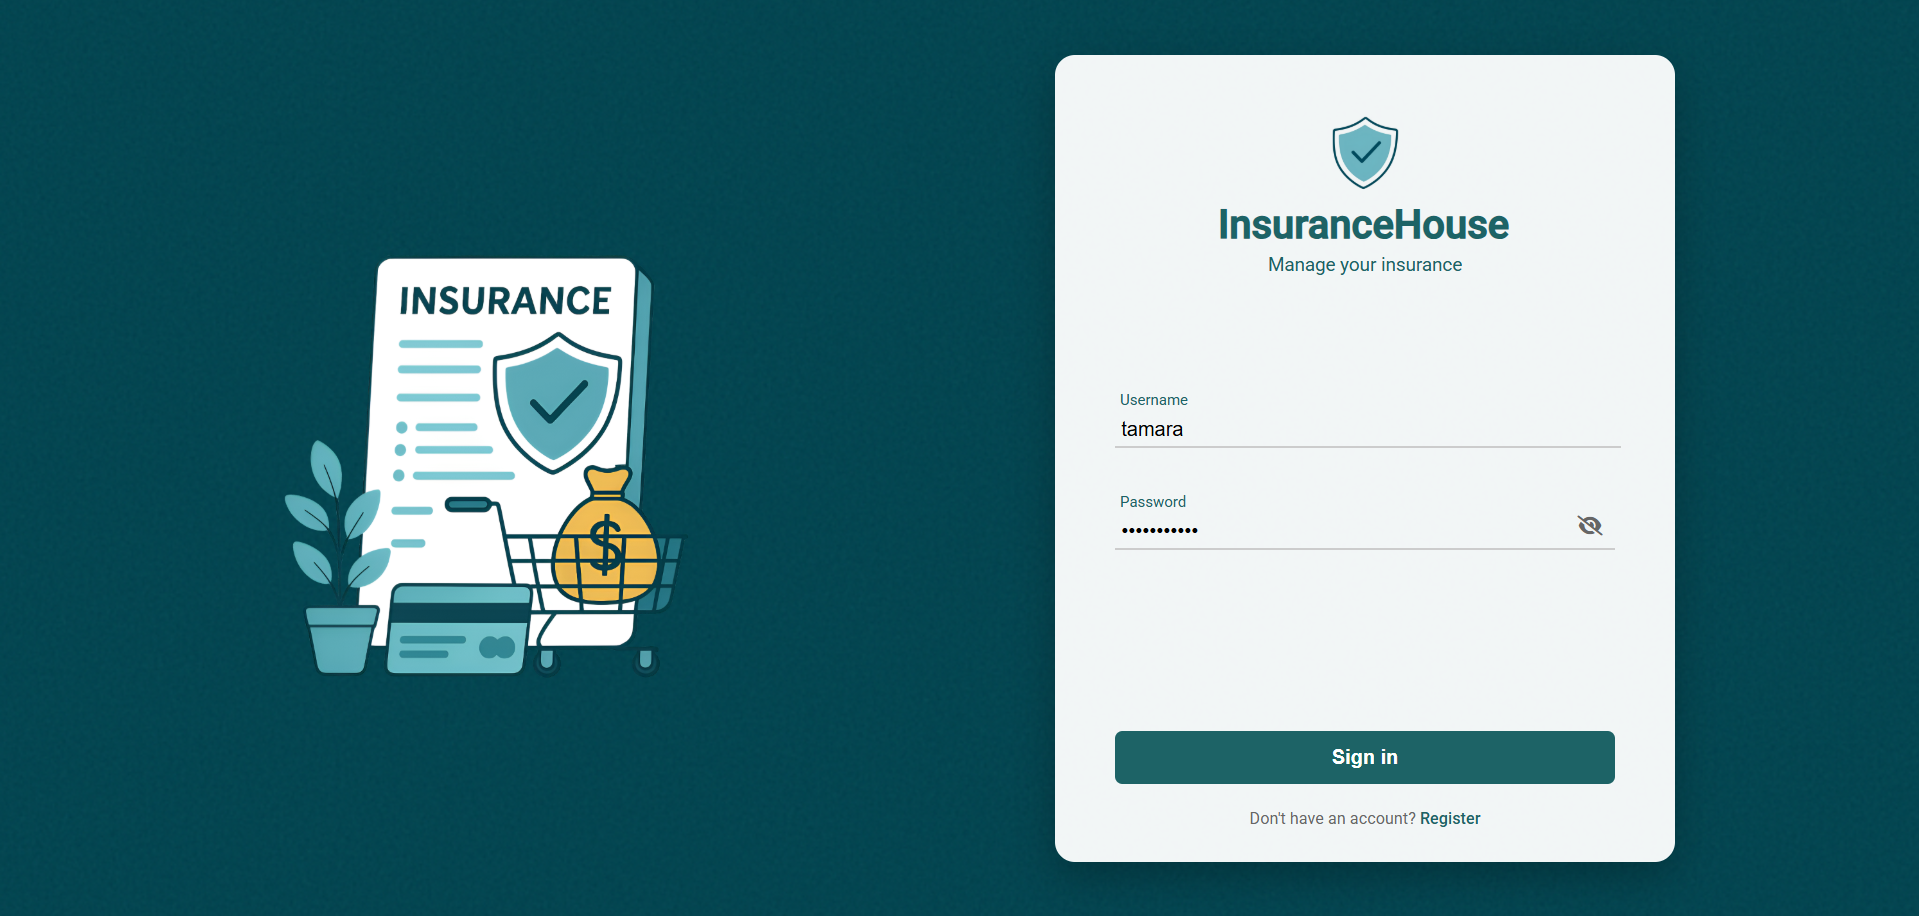
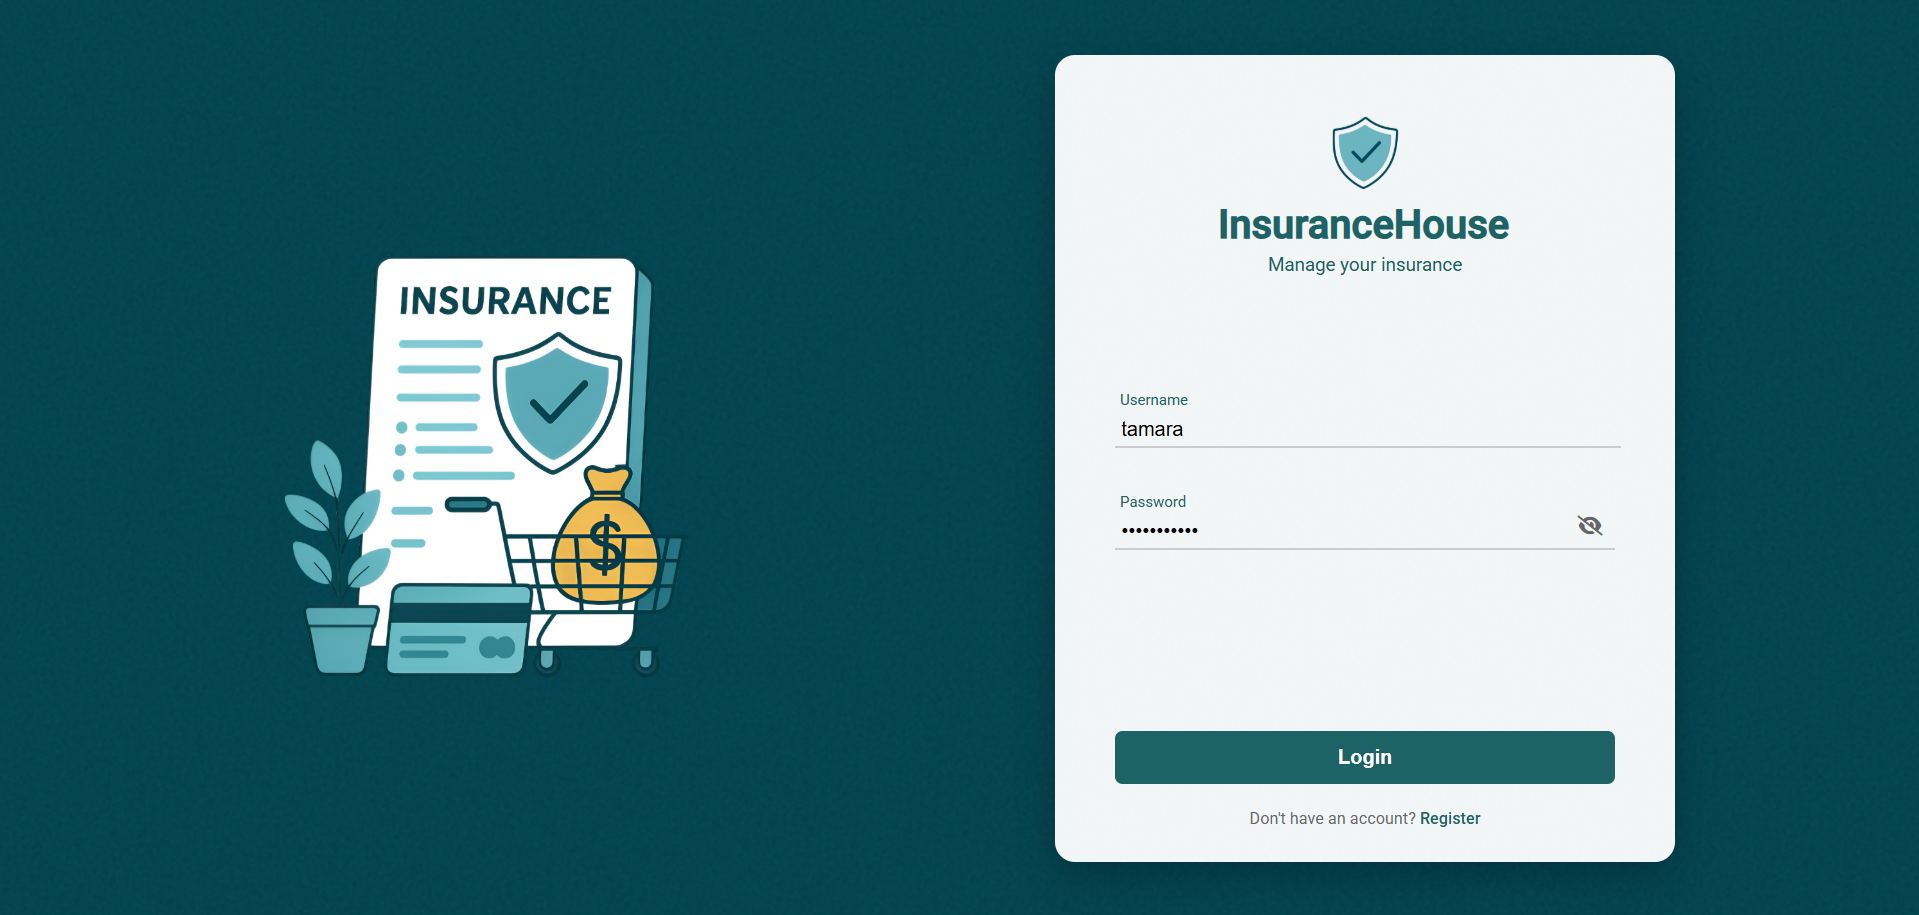
Fix text in button

diff --git a/InsuranceSystem/frontend/client-app/src/app/pages/login/login.component.html b/InsuranceSystem/frontend/client-app/src/app/pages/login/login.component.html
@@ -49,7 +49,7 @@
             </button>
           </div>
 
-          <button type="submit" [disabled]="!loginForm.form.valid">Sign in</button>
+          <button type="submit" [disabled]="!loginForm.form.valid">Login</button>
         </form>
 
         <p class="register-note">
